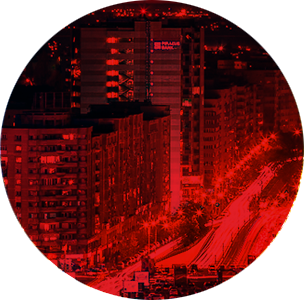
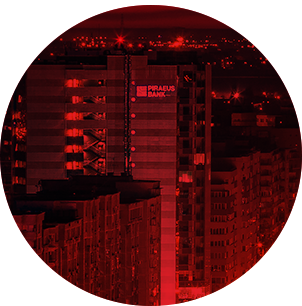
Add sharpness page

diff --git a/public/css/my.css b/public/css/my.css
@@ -1,6 +1,6 @@
 @font-face {
     font-family: nevis;
-    src: url(/fonts/nevis.ttf;);
+    src: url(/fonts/nevis.ttf);
 }
 
 html { 
@@ -137,6 +137,9 @@ html {
 
 .hometop {
     position: relative;
+    background: url(/img/big_pic_bw.jpg) no-repeat top center fixed;
+    height: 400px;
+    width: 100%;
 }
 
 .homelink {
@@ -172,14 +175,32 @@ html {
     height: 400px;
 }
 
+.ascuns2 {
+    overflow: hidden;
+    background: url(/img/big_excel_sharp.jpg) no-repeat top center fixed;
+    position: relative;
+    opacity: 0;
+    width: 100%;
+    height: 400px;
+}
+
+.sharp {
+    position: relative;
+    background: url(/img/big_excel_blur.jpg) no-repeat top center fixed;
+    height: 400px;
+    width: 100%;
+    opacity: 1;
+}
+
 .slider {
     background-color: #ffffff;
     width: 700px;
     height: 2px;
-    position: absolute;
+    position: relative;
     z-index: 4;
     top: 365px;
-    left: 235px;
+    margin-left: auto;
+    margin-right: auto;
 }
 
 #slider2 {
@@ -195,7 +216,7 @@ html {
 .sageata {
     position: absolute;
     z-index: 3;
-    top: -11.5px;
+    top: -15.5px;
     /*left: 10px;*/
     width: 16px;
 }
@@ -207,14 +228,26 @@ html {
 
 .cerc {
     display: none;
-    position: absolute;
+    position: relative;
     z-index: 6;
     border-radius: 50%;
-    background-color:  #e21e26;
     width: 302px;
-    height: 301px;
-    top: 27px;
-    left: 438px;
+    height: 306px;
+    top: -358px;
+    margin-left: auto;
+    margin-right: auto;
+}
+
+.cerc-sharp {
+    display: none;
+    position: relative;
+    z-index: 6;
+    border-radius: 50%;
+    width: 302px;
+    height: 302px;
+    margin-left: auto;
+    margin-right: auto;
+    top: -350px;
 }
 
 .cerc-text {

diff --git a/resources/views/sharpness.blade.php b/resources/views/sharpness.blade.php
@@ -1,26 +1,26 @@
 @extends('app')
 
 @section('content')
-<div class="colorstop">
+<div class="sharp">
 	<div class="slider">
 			<div class="sageata">
 				<img src="/img/sageata-slider2.jpg" />
 			</div>
 	</div>
 	
-	<div class="ascuns">
-	</div>
+	<div class="ascuns2"></div>
 
-	<div class="cerc">
-		<img src="/img/cerc-colors.png" />
-		<h3 class="cerc-text">Cartusele originale au culori intense</h3>
-		<a href="/sharpness">
+	<div class="cerc-sharp">
+		<img src="/img/bulina_diagrame.png" />
+		<h3 class="cerc-text">Cartusele originale au calitate</h3>
+		<a href="/durata">
 			<h3 class="text-buton-cerc">Mai departe</h3>
 			<img class= "buton-cerc" src="/img/homebuton.png" />
 		</a>
 	</div>
+	
 </div>
-<!-- .css('width', slider.value/100*465+235 + 'px') -->
+
 <script>
 $('.slider').slider({
 	range: true,
@@ -32,11 +32,11 @@ $('.slider').slider({
 
 function handleSliderChange(event, slider){
           $(".sageata").css('left', slider.value + '%');
-          $(".ascuns").css('opacity', slider.value/100+0.10);
+          $(".ascuns2").css('opacity', slider.value/100+0.10);
 
-          if ($(".ascuns").css('opacity') >= '0.95') 
+          if ($(".ascuns2").css('opacity') >= '0.95') 
           	{
-          		return $(".cerc").show();
+          		return $(".cerc-sharp").show();
           	};
 }
 </script>

diff --git a/resources/views/home.blade.php b/resources/views/home.blade.php
@@ -2,7 +2,15 @@
 
 @section('content')
 <div class="hometop">
-	<img src="/img/homeheader.png" />
+	<!-- <img src="/img/homeheader.png" /> -->
+	<div class="cerc2">
+		<img src="/img/cerc-colors.png" />
+		<h3 class="cerc-text">Cartusele originale au culori intense</h3>
+		<a href="/inscriere">
+			<h3 class="text-buton-cerc">Mai departe</h3>
+			<img class= "buton-cerc" src="/img/homebuton.png" />
+		</a>
+	</div>
 	<a href="/colors">
 		<img src="/img/homebuton.png" class="homebuton" />
 		<h4 class="homelink">Intra in aplicatie</h4>

diff --git a/app/Http/routes.php b/app/Http/routes.php
@@ -15,11 +15,9 @@
 Route::get('/', 'HomeController@index');
 Route::post('/', 'HomeController@index');
 
-Route::get('/colors', 'HomeController@getIndex');
+Route::get('/colors', 'HomeController@getColors');
+Route::get('/sharpness', 'HomeController@getSharp');
+Route::get('/durata', 'HomeController@getDurata');
 
-// Route::get('/facebook/login', function()
-// {
-	
-// } 'EntryController@getLogin');
 Route::get('/inscriere', 'EntryController@getIndex');
 Route::post('/inscriere', 'EntryController@postIndex');

diff --git a/resources/views/durata.blade.php b/resources/views/durata.blade.php
@@ -1,0 +1,25 @@
+@extends('app')
+
+@section('content')
+
+
+<script>
+$('.slider').slider({
+	range: true,
+	min: 0,
+	max: 90,
+	value: 1,
+    slide: handleSliderChange
+});
+
+function handleSliderChange(event, slider){
+          $(".sageata").css('left', slider.value + '%');
+          $(".ascuns2").css('opacity', slider.value/100+0.10);
+
+          if ($(".ascuns2").css('opacity') >= '0.95') 
+          	{
+          		return $(".cerc-sharp").show();
+          	};
+}
+</script>
+@endsection

diff --git a/app/Http/Controllers/HomeController.php b/app/Http/Controllers/HomeController.php
@@ -12,8 +12,18 @@ class HomeController extends Controller {
 		return view('home');
 	}
 
-	public function getIndex()
+	public function getColors()
 	{
 		return view('colors');	
+	}
+
+	public function getSharp()
+	{
+		return view('sharpness');
+	}
+
+	public function getDurata()
+	{
+		return view('durata');
 	}
 }
